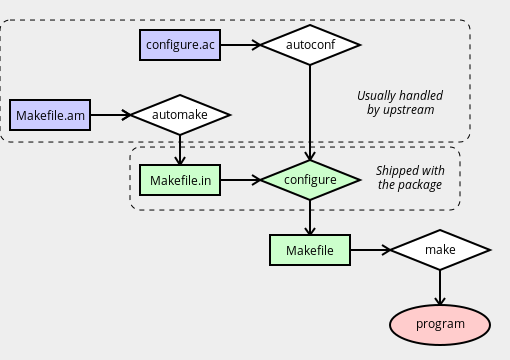
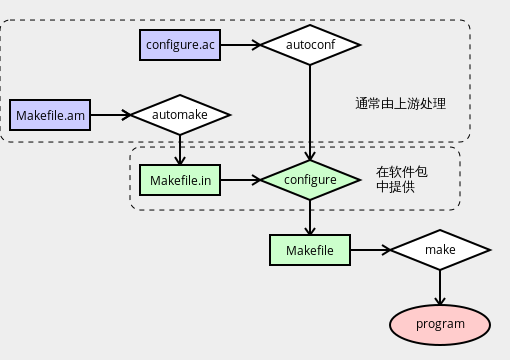
autotools

Changed region(s): [[0.6765, 0.2444, 0.8824, 0.3361], [0.7353, 0.4583, 0.8824, 0.55]]

diff --git a/devmanual.gentoo.org/general-concepts/autotools/index.html b/devmanual.gentoo.org/general-concepts/autotools/index.html
@@ -67,7 +67,7 @@
 </ol></div></div></div></header><main><div class="container">
 <h1 class="first-header">Autotools 基础</h1>
 <div class="alert alert-info" role="alert">
-<strong>计划:</strong>
+<strong>待办：</strong>
 这篇文档对于 <a class="" href="../index.html">General Concepts</a> 来说太过冗长。需要拆分并移动到它自己的顶层目录，或者是<a class="" href="../../appendices/index.html">附录</a>，或者是别的什么地方。
 </div>
 
@@ -568,24 +568,22 @@ autotools.eclass 包含了一些用来调用单个工具的辅助函数，这些
 </p>
 
 <p>
-In those cases you need to find out the <code class="docutils literal"><span class="pre">m4</span></code> file, usually installed by the
-dependency in <code class="docutils literal"><span class="pre">/usr/share/aclocal</span></code>. and make sure that the <code class="docutils literal"><span class="pre">src_unpack</span></code>
-stage both makes available those files to the autotools and calls <code class="docutils literal"><span class="pre">aclocal</span></code> to
-recreate the <code class="docutils literal"><span class="pre">aclocal.m4</span></code> file which is used by <code class="docutils literal"><span class="pre">autoconf</span></code> when creating the
-configure script.
+在这种情况下你需要找到 <code class="docutils literal"><span class="pre">m4</span></code> 文件，它们一般由依赖安装在
+<code class="docutils literal"><span class="pre">/usr/share/aclocal</span></code> 目录下。然后在
+<code class="docutils literal"><span class="pre">src_unpack</span></code> 阶段确保这些文件对 autotools 可用，同时调用
+<code class="docutils literal"><span class="pre">aclocal</span></code> 生成 <code class="docutils literal"><span class="pre">aclocal.m4</span></code>
+文件，以便让 <code class="docutils literal"><span class="pre">autoconf</span></code> 用来生成 configure 脚本。
 </p>
 
 <p>
-Usually it's more than one <code class="docutils literal"><span class="pre">m4</span></code> file which is missing, so you probably want to
-package them in a tarball, and add it to <code class="docutils literal"><span class="pre">SRC_URI</span></code>. After making sure that the
-tarball is extracted somewhere in <code class="docutils literal"><span class="pre">${WORKDIR}</span></code> (say, in a <code class="docutils literal"><span class="pre">gentoo-m4</span></code>
-directory), you usually have two general ways to handle those macro files, one
-for packages which ships with an incomplete <code class="docutils literal"><span class="pre">m4</span></code> directory and one for
-packages which ships without the <code class="docutils literal"><span class="pre">m4</span></code> directory.
+通常情况下会缺少不止一个 <code class="docutils literal"><span class="pre">m4</span></code> 文件，所以你可能需要把它们打成一个压缩包并添加到
+<code class="docutils literal"><span class="pre">SRC_URI</span></code>。在确认了该压缩包解压到了 <code class="docutils literal"><span class="pre">${WORKDIR}</span></code>
+的某个地方（例如，在 <code class="docutils literal"><span class="pre">gentoo-m4</span></code> 目录中）后，一般有两种通用方法处理这些宏文件，一种用于带有不完整
+<code class="docutils literal"><span class="pre">m4</span></code> 目录的软件包，而另一种用于不带 <code class="docutils literal"><span class="pre">m4</span></code> 目录的软件包。
 </p>
 
 <p>
-In the first case you usually want to do something like:
+在第一种情况下，你通常需要执行以下操作：
 </p>
 
 <pre><span class="Constant"><span xmlns="http://www.w3.org/1999/xhtml" class="Statement">einfo</span> <span xmlns="http://www.w3.org/1999/xhtml" class="Statement">"</span>Regenerating autotools files...<span xmlns="http://www.w3.org/1999/xhtml" class="Statement">"</span>
@@ -595,7 +593,7 @@ cp <span xmlns="http://www.w3.org/1999/xhtml" class="Statement">"</span><span xm
 </span></pre>
 
 <p>
-and so on. In the second case you can simplify it in this way:
+在第二种情况下，你可以像这样简化操作：
 </p>
 
 <pre><span class="Constant"><span xmlns="http://www.w3.org/1999/xhtml" class="Statement">einfo</span> <span xmlns="http://www.w3.org/1999/xhtml" class="Statement">"</span>Regenerating autotools files...<span xmlns="http://www.w3.org/1999/xhtml" class="Statement">"</span>
@@ -604,13 +602,12 @@ and so on. In the second case you can simplify it in this way:
 </span></pre>
 
 <p>
-without need to copy the files.
+而无需复制文件。
 </p>
 
 <p>
-It's always better inform upstream when the needed <code class="docutils literal"><span class="pre">m4</span></code> files are missing in
-the distribution, asking them to add all the needed files in the source tarball
-to avoid version conflicts if the macro changes.
+当发行版中缺少 <code class="docutils literal"><span class="pre">m4</span></code>
+文件时最好的办法是通知上游组织，让他们在源码包里添加所需的文件以避免宏更改时的版本冲突。
 </p>
 
 </div>
@@ -618,29 +615,26 @@ to avoid version conflicts if the macro changes.
 <h2 id="libtool">Libtool</h2>
 
 <div class="alert alert-info" role="alert">
-<strong>Todo:</strong>
-Stuff about libtool, libtoolize, elibtoolize, libtool.eclass. Which I
-know almost nothing about... Yay!
+<strong>待办：</strong>
+关于 libtool, libtoolize, elibtoolize, libtool.eclass 的东西。原文作者不懂...
 </div>
 
 </div>
 <div class="section">
-<h2 id="further-autotools-reading">Further Autotools Reading</h2>
+<h2 id="further-autotools-reading">Autotools 进一步学习</h2>
 
 <p>
-For more details on autotools:
+更多 autotools 的细节请阅读：
 </p>
 
 <ul>
   <li>
-    The book "GNU Autoconf, Automake and Libtool" by Gary V. Vaughan, Ben
-    Elliston, Tom Tromey  and Ian Lance Taylor   (often called "The Autobook")
-    provides a good but somewhat outdated description of autotools. It is
-    <a class="" href="https://sourceware.org/autobook/">freely available online</a>.
+    书籍《GNU Autoconf, Automake and Libtool》（简称“The Autobook”）。作者 Gary V. Vaughan，Ben
+    Elliston，Tom Tromey，Ian Lance Taylor。讲的不错但略显过时。可以
+    <a class="" href="https://sourceware.org/autobook/">免费在线阅读</a>。
   </li>
   <li>
-    The GNU documentation for the various autotools components is of varying
-    quality and completeness:
+    各种 autotools 组件的 GNU 文档，质量和完成度都参差不齐：
     <ul>
     <li>
       <a class="" href="https://www.gnu.org/software/automake/manual/automake.html">
@@ -662,9 +656,8 @@ For more details on autotools:
     </ul>
   </li>
   <li>
-    There are some good overview lectures available online.
-    <a class="" href="https://www.shlomifish.org/lecture/Autotools/">These slides</a>
-    are one example.
+    一些
+    <a class="" href="https://www.shlomifish.org/lecture/Autotools/">在线课程</a>。
   </li>
 </ul>
 
